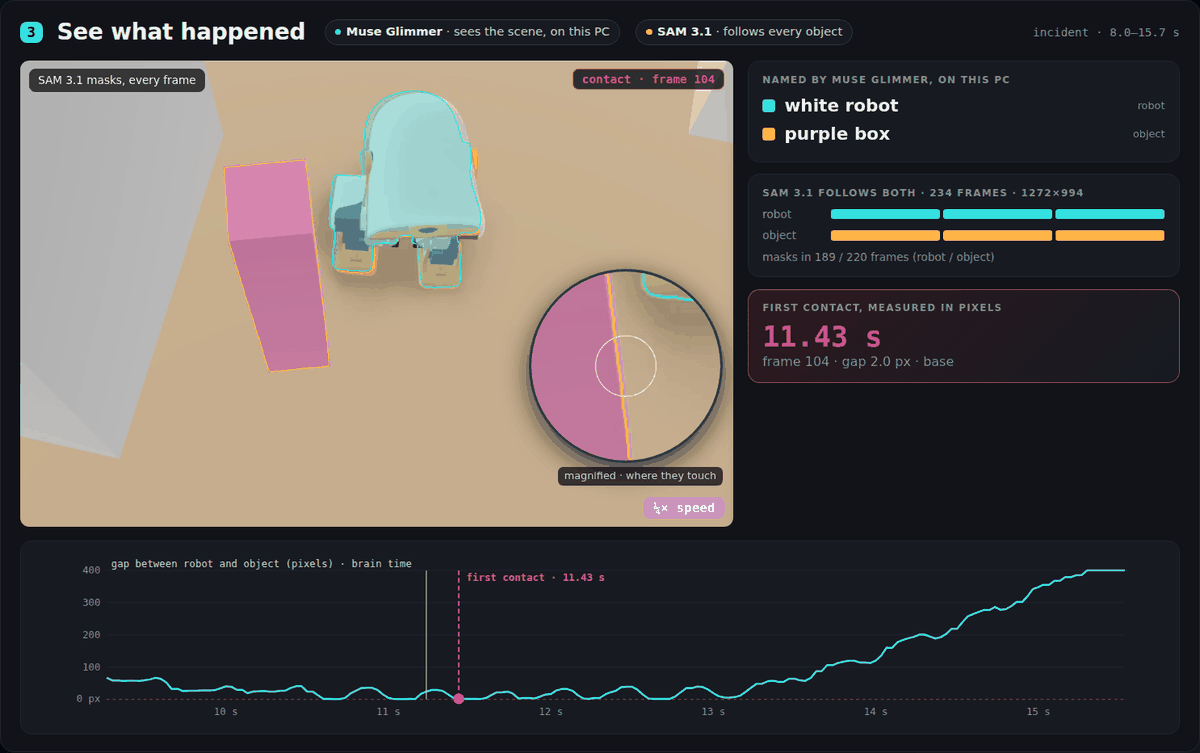
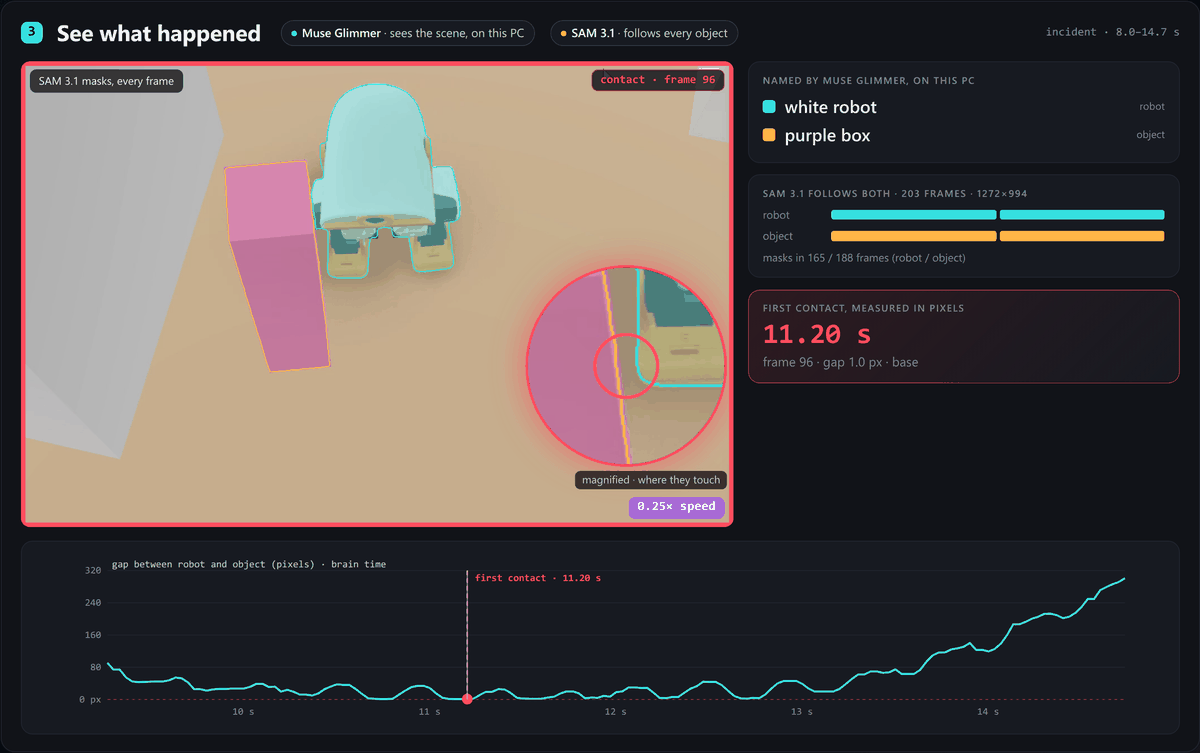
README images from the public example run only: See, Prove it, the fix, the GIF, plus the contact from the side
All from examples/purple-box (20261029-170922), each under 100 KB; captions match the example's
numbers (11.20 s, 11.46 s, 106 px, kept 77db417). Prove it holds each replay on its own moment.
docs/contact-side.png: the twin's 38° side view at the first touch, 11.47 s.

diff --git a/README.md b/README.md
@@ -8,7 +8,7 @@
 
 **[See a real run, no install](https://samoxis.github.io/blinkflow/report/)**: the purple-box incident, from the snapshot to the proof. It is the static report of `examples/purple-box/`.
 
-<p align="center"><img src="docs/blinkflow.gif" width="640" alt="The robot's right leg brushes the purple box; after BlinkFlow's fix, contacts go from 1 to 0"></p>
+<p align="center"><img src="docs/blinkflow.gif" width="640" alt="The example run's two replays in the twin, each at its own moment: before the fix the robot touches the purple box (1 contact at 11.46 s); with the fix it stops 106 px away; contacts 1 to 0"></p>
 
 ## For the judges (5 minutes)
 
@@ -59,8 +59,10 @@ What it films is the simulator's window on your screen, not a camera on the robo
 | Fix | A coding agent patches the code inside its sandbox; a git commit is taken first | Muse Code (Python SDK) |
 | Prove | The same scene, replayed exactly in a deterministic twin, and checked again on pixels; failed fixes are rolled back and retried. For the demo incident, then confirmed on the live simulator (`results/live_check.md`) | SAM 3.1, Muse Code |
 
-<p align="center"><img src="docs/console-see.png" width="720" alt="The console's See step: masks on the robot and the purple box, a magnifier on the contact"></p>
-<p align="center"><em>See: SAM 3.1 follows both objects on every frame; the gap in pixels gives the first contact (the 166.4 s run).</em></p>
+<p align="center"><img src="docs/console-see.png" width="720" alt="The console's See step: masks on the robot and the purple box, a magnifier on the contact at 11.20 s"></p>
+<p align="center"><em>See: SAM 3.1 follows both objects on every frame of the live window; the gap in pixels gives the first contact, 11.20 s (the example run, <a href="examples/purple-box"><code>examples/purple-box/</code></a>).</em></p>
+<p align="center"><img src="docs/contact-side.png" width="720" alt="The robot's right foot against the purple box, filmed low from the side in the twin, ringed"></p>
+<p align="center"><em>From above, the foot is hidden under the robot; SAM 3.1 counts contact when the masks come within 2 px. The side view shows the touch.</em></p>
 
 ## Why the Meta stack
 
@@ -99,8 +101,8 @@ Measured during the hackathon; each number links to the file it comes from.
 
 Every run writes a `models.json`: each model call with the model, where it ran (this PC, Meta, Baseten, the cache), tokens or frames, seconds and cost. Cost details (the SAM 3.1 cache, Muse Code's model, `tools/spend.py`): [`docs/RUNNING.md`](docs/RUNNING.md#cost).
 
-<p align="center"><img src="docs/console-prove.png" width="720" alt="The console's Prove it step: before the fix in red with 1 contact, after it in green with none"></p>
-<p align="center"><em>Prove it: the same scene replayed before (red) and after the fix (green), measured on pixels: contacts 1 → 0.</em></p>
+<p align="center"><img src="docs/console-prove.png" width="720" alt="The console's Prove it step: before the fix in red with 1 contact at 11.46 s, after it in green with none, closest 106 px; Keep the fix? Yes"></p>
+<p align="center"><em>Prove it: the same scene replayed before (red) and after the fix (green), measured on pixels: contacts 1 → 0. Each replay is shown at its own moment: the first contact at 11.46 s, and with the fix the closest approach, 106 px, where the robot stops and turns away. "Keep the fix?" was answered yes.</em></p>
 
 ## Try it in ~2 min, no GPU
 
@@ -157,7 +159,7 @@ Glimmer is the open-weight model that names objects, describes key frames and re
 A local page that shows the loop live, one step at a time, with the model behind each step, from the last 60 seconds rewinding to the moment to the replay before | after, the clock and the bill. "Fix it?" and "Keep the fix?" can be answered there or in the terminal. `python3 -m blinkflow.console serve` (http://localhost:8777); the other commands (the static report, the film mode, the teaser, the side shot) are in [`docs/RUNNING.md`](docs/RUNNING.md#the-console).
 
 <p align="center"><img src="docs/console-fix.png" width="720" alt="The console's fix step: the safety commit, Muse Code's tool calls and its one-line diff"></p>
-<p align="center"><em>Write the fix: a safety commit first, then Muse Code's tool calls and its one-line change.</em></p>
+<p align="center"><em>Write the fix: a safety commit first, then Muse Code's tool calls and its one-line change, kept as <code>77db417</code>.</em></p>
 
 ## Where this could go (not built or tested yet)
 

diff --git a/DEVLOG.md b/DEVLOG.md
@@ -47,3 +47,5 @@ All times UK.
 - 21:55 Console, two display fixes from the 21:31 voice run. Step 7: a clean control scene says which reading decided it, as `prove.contact_of` picks it from the scene's evidence ("clean · closest 2 px in view · no touch at the base" when the object's base was found; the whole masks' "closest N px" alone otherwise), so the low cube's 2 px no longer reads as a near miss at CONTACT_PX. Step 2: the words the reader took as the robot ("she") are coloured as the robot. Only step 7's text changes on both the run and the example; no page errors.
 - 21:10 (Oct 30) Console replay, three display fixes from filming the 21:31 voice run at `--speed 1`. Step 1: a replayed run had no live picture, so the panel sat on "waiting for the simulator"; it now plays the window saved around the moment (the snapshot's `t0_epoch`) where the replayed clock is, held on its first or last frame outside it, scrubbed back with the rewind and looped from the moment after. Step 7: a control scene the twin has rendered shows a frame of its render until SAM's evidence picture replaces it (it was black, "rendered", for the ~70 s before the verdicts). `--film` opens Chrome with `--kiosk` instead of `--start-fullscreen`, so no "press and hold Esc" banner (Alt+F4 closes it). Checked headless at 30 s, during and after the control, and at the end, and in the real film window on Windows.
 - 22:40 (Oct 30) Tap the glasses to talk (`voice live --tap-to-talk`): a tap on the Ray-Ban Meta arm starts the recording, the next stops it; F9 still works. Windows injects a tap as a device-less media key (single tap: play/pause; no key up), taken by a low-level hook in the sidecar and swallowed while it listens; utterances carry `trigger: "glasses-tap"`. Measured first: 6 of 6 single taps arrived, median 694 ms after a Space pressed with the other hand (665–879 ms), so both taps are set back by 0.69 s and the idle mic keeps 1.19 s instead of 0.5 s. Checked with injected keys (one utterance, 0.69 s set back, 6.6 s of audio for taps 6 s apart, the key swallowed); not yet in a live run.
+- 23:30 (Oct 30) Console, film mode: the listen chip reads "tap the glasses · Ray-Ban Meta" when the key event's `trigger` is `glasses-tap`, and "F9 · hold and speak" otherwise, from the stream alone; the waveform line says "between taps" instead of "held" for a tap. The example (Oct 29, F9) stays on F9. The quarter-speed badge reads "0.25× speed": "¼" drew as a broken glyph in fonts without it (DejaVu Sans Mono, headless). Checked headless on the example and on a copy of its stream with the trigger set; `docs/report` rebuilt.
+- 23:45 (Oct 30) README images rebuilt from the public example only (`examples/purple-box`, run 20261029-170922), headless at 1920x1080 with the Windows console fonts, each under 100 KB: See at the first contact (11.20 s, frame 96, gap 1.0 px), Prove it with each replay held on its own moment (contact at 11.46 s; with the fix, the closest approach, 106 px at 12.89 s) and "Keep the fix?" Yes after 12.6 s, the fix kept as 77db417, and the GIF from the two replays ending on "contacts 1 → 0" (97 KB, was 872 KB). New `docs/contact-side.png`: the same contact from 38° on the side in the twin, 11.47 s, the right foot against the box, ringed.
